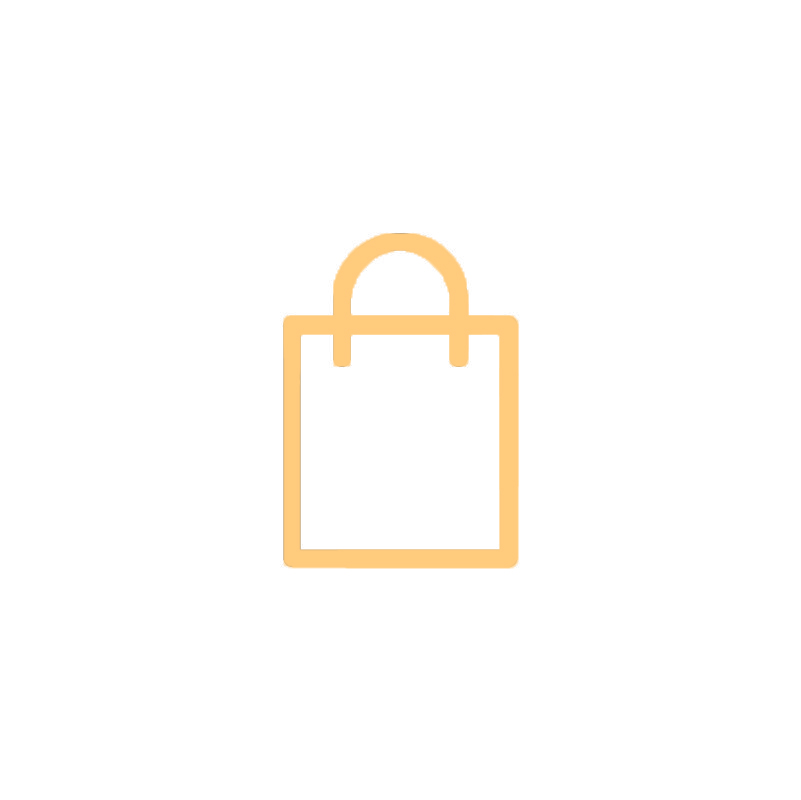
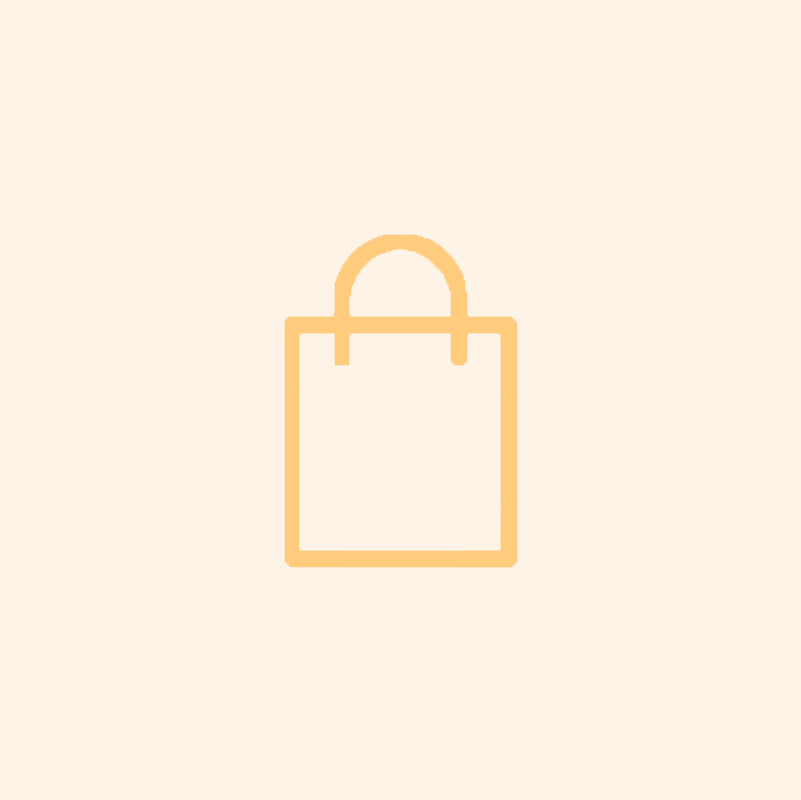
body color

Changed region(s): [[0.3433, 0.2812, 0.593, 0.6875], [0.437, 0.375, 0.6554, 0.7188]]

diff --git a/templates/ecommerce/base.html b/templates/ecommerce/base.html
@@ -59,7 +59,7 @@
 </head>
 <body>
 
-<div class="navbar" >
+<div class="navbar" style="background-color: #fdf4e7;" >
     <div><a href="{% url 'ecommerce:index' %}" class="navbar-header">Bakerspoint</a>
         <a href="{% url 'ecommerce:cart-page' %}"><img src="{% static 'shoppingbag.jpg' %}" alt="car" class="shopping-bag" height="50px">
         <div class="shopping-bag-count">

diff --git a/static/css/site.css b/static/css/site.css
@@ -1,3 +1,8 @@
+body{
+    background-color: #fdf4e7;
+}
+
+
 .about{
     background-color: #f7e0bd;
     color: rgb(79, 80, 80);
